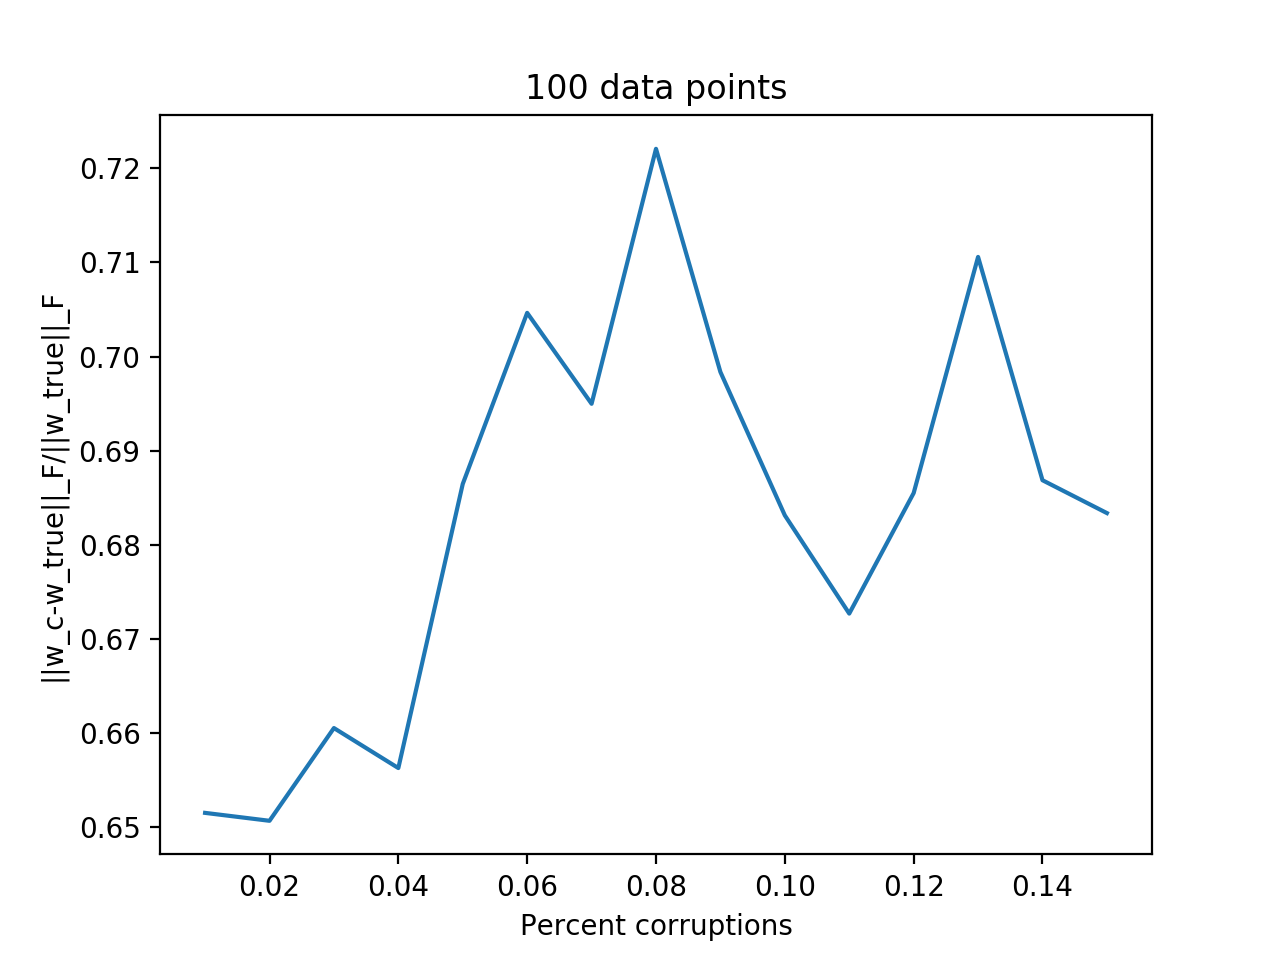
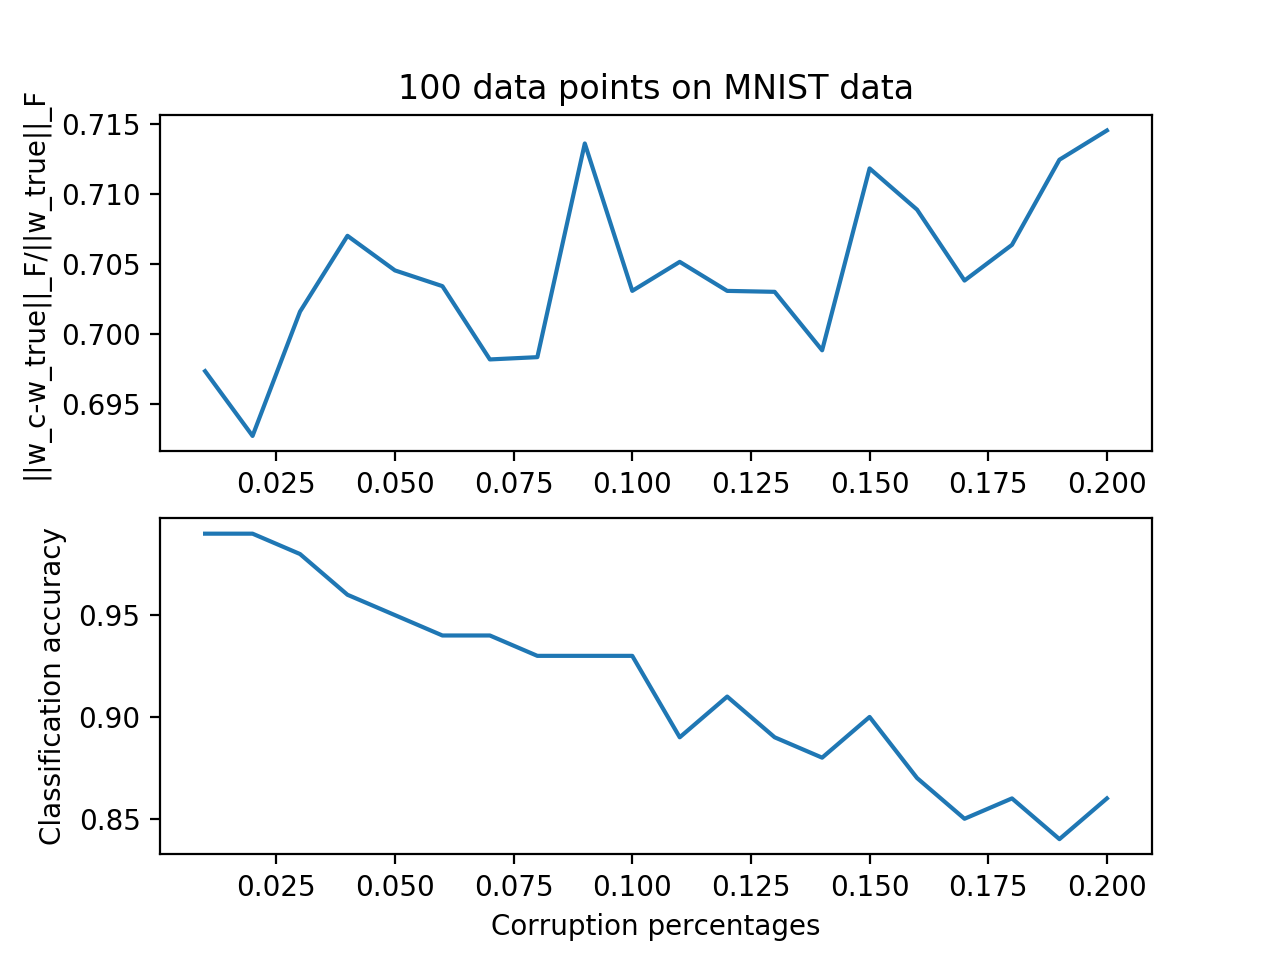
Update testing files

diff --git a/Framework1/NumericalExperiments/TestingFile.py b/Framework1/NumericalExperiments/TestingFile.py
@@ -1,41 +1,78 @@
+import numpy as np
+import math
+import torch
+import torchvision
+import matplotlib.pyplot as plt
+from MulticlassLogReg import MulticlassLogReg
+from CreateAgents import CreateAgents
+from sklearn.datasets import load_svmlight_file
 
-# Find "true" parameters by training on a majority of the data
-[w_true, loss_hist] = multiclass_log_reg(x[0:50000, :], y[0:50000], 10, 0.25, 1, 1000)
+# Load data for problem
+print('[INFO] Loading data...')
+x, y = load_svmlight_file("../../../../../Data/mnist")
+x = x.todense()
 
-# Train on just a subset to see how w changes based on number of data points
-[w_i, loss_hist_i] = multiclass_log_reg(x_train_agents[0], y_train_agents[:, 0], 10, 0.25, 1, 1000)
-print(la.norm(w_i - w_true, ord='fro'))
+# Normalize data
+x = np.array(x) / np.max(x)
 
-#y_corrupt = np.random.randint(10, size=len(y_train_agents[:, 0]))
-#y_corrupt = np.zeros(len(y_train_agents))
-y_corrupt_ind = np.random.randint(len(y_test), size=math.floor(len(y_test)))
-corruptions = np.random.randint(10, size=len(y_corrupt_ind))
-y_corrupt = y_test.copy()
-y_corrupt[y_corrupt_ind] = corruptions
+# Fix our data to make square bois
+concat = np.zeros((x.shape[0], 4))
+x = np.append(x, concat, axis=1)
 
-[w_c, loss_hist_c] = multiclass_log_reg(x_test, y_corrupt, 10, 0.25, 1, 1000)
-print(la.norm(w_c - w_true, ord='fro')/la.norm(w_true, ord='fro'))
+train_data = x[0:50000, :]
+test_data = x[50000:60000, :]
+train_label = y[0:50000]
+test_label = y[50000:60000]
+
+# Run multiclass logistic regression to get "w_true"
+all_data_train = MulticlassLogReg(train_data, train_label, np.random.rand(train_data.shape[1], 10), np.random.rand(10), T=1000, tol=0.5, alpha=0.25, lam1=1e-3, lam2=0.1, num_classes=10)
+all_data_train.optimization()
+
+pred, prob = all_data_train.predict(test_data, all_data_train.w, all_data_train.b)
+
+print('Accuracy: ', sum(pred == test_label)/len(pred))
+
+# Save "true" values for comparison
+w_true = all_data_train.w
+b_true = all_data_train.b
+b_true_mean = b_true - np.mean(b_true)
+
+w_true = np.concatenate((w_true, np.array([b_true_mean])), axis=0)
 
 w_seq = []
 corruptions_seq = []
+accuracy = []
+num_test = 1000
 
-for i in range(1, 16):
+for i in range(1, 31):
 
-    y_corrupt_ind = np.random.randint(len(y_test[0:1000]), size=math.floor((i * 0.01) * len(y_test[0:1000])))
+    y_corrupt_ind = np.random.randint(len(test_label[0:num_test]), size=math.floor((i * 0.01) * len(test_label[0:num_test])))
     corruptions = np.random.randint(10, size=len(y_corrupt_ind))
-    y_corrupt = y_test[0:1000].copy()
+    y_corrupt = test_label[0:num_test].copy()
     y_corrupt[y_corrupt_ind] = corruptions
 
-    [w, l] = multiclass_log_reg(x_test[0:1000], y_corrupt, 10, 0.25, 1, 1000)
+    corruption_log_reg = MulticlassLogReg(test_data[0:num_test], y_corrupt, np.random.rand(test_data.shape[1], 10), np.random.rand(10), T=1000, tol=0.5, alpha=0.25, lam1=1, lam2=1, num_classes=10)
+    corruption_log_reg.optimization()
 
-    norm = la.norm(w - w_true, ord='fro')/la.norm(w_true, ord='fro')
+    w = np.concatenate((corruption_log_reg.w, np.array([corruption_log_reg.b - np.mean(corruption_log_reg.b)])), axis=0)
+
+    norm = np.linalg.norm(w - w_true, ord='fro')/np.linalg.norm(w_true, ord='fro')
+
+    pred, prob = all_data_train.predict(test_data[0:num_test], corruption_log_reg.w, corruption_log_reg.b)
+
+    acc = sum(pred == test_label[0:num_test]) / len(pred)
 
     corruptions_seq.append(i * 0.01)
     w_seq.append(norm)
+    accuracy.append(acc)
 
 
-fig = plt.figure()
+plt.subplot(211)
 plt.plot(corruptions_seq, w_seq)
-plt.title(str(len(y_test[0:1000])) + ' data points')
-plt.xlabel('Percent corruptions')
+plt.title(str(len(test_label[0:num_test])) + ' data points on MNIST data')
 plt.ylabel('||w_c-w_true||_F/||w_true||_F')
+plt.subplot(212)
+plt.plot(corruptions_seq, accuracy)
+plt.ylabel('Classification accuracy')
+plt.xlabel('Corruption percentages')
+plt.show()

diff --git a/Framework1/NumericalExperiments/FashionTest.py b/Framework1/NumericalExperiments/FashionTest.py
@@ -45,9 +45,9 @@ w_true = np.concatenate((w_true, np.array([b_true])), axis=0)
 w_seq = []
 corruptions_seq = []
 accuracy = []
-num_test = 100
+num_test = 10000
 
-for i in range(1, 21):
+for i in range(90, 91):
 
     y_corrupt_ind = np.random.randint(len(test_label[0:num_test]), size=math.floor((i * 0.01) * len(test_label[0:num_test])))
     corruptions = np.random.randint(10, size=len(y_corrupt_ind))
